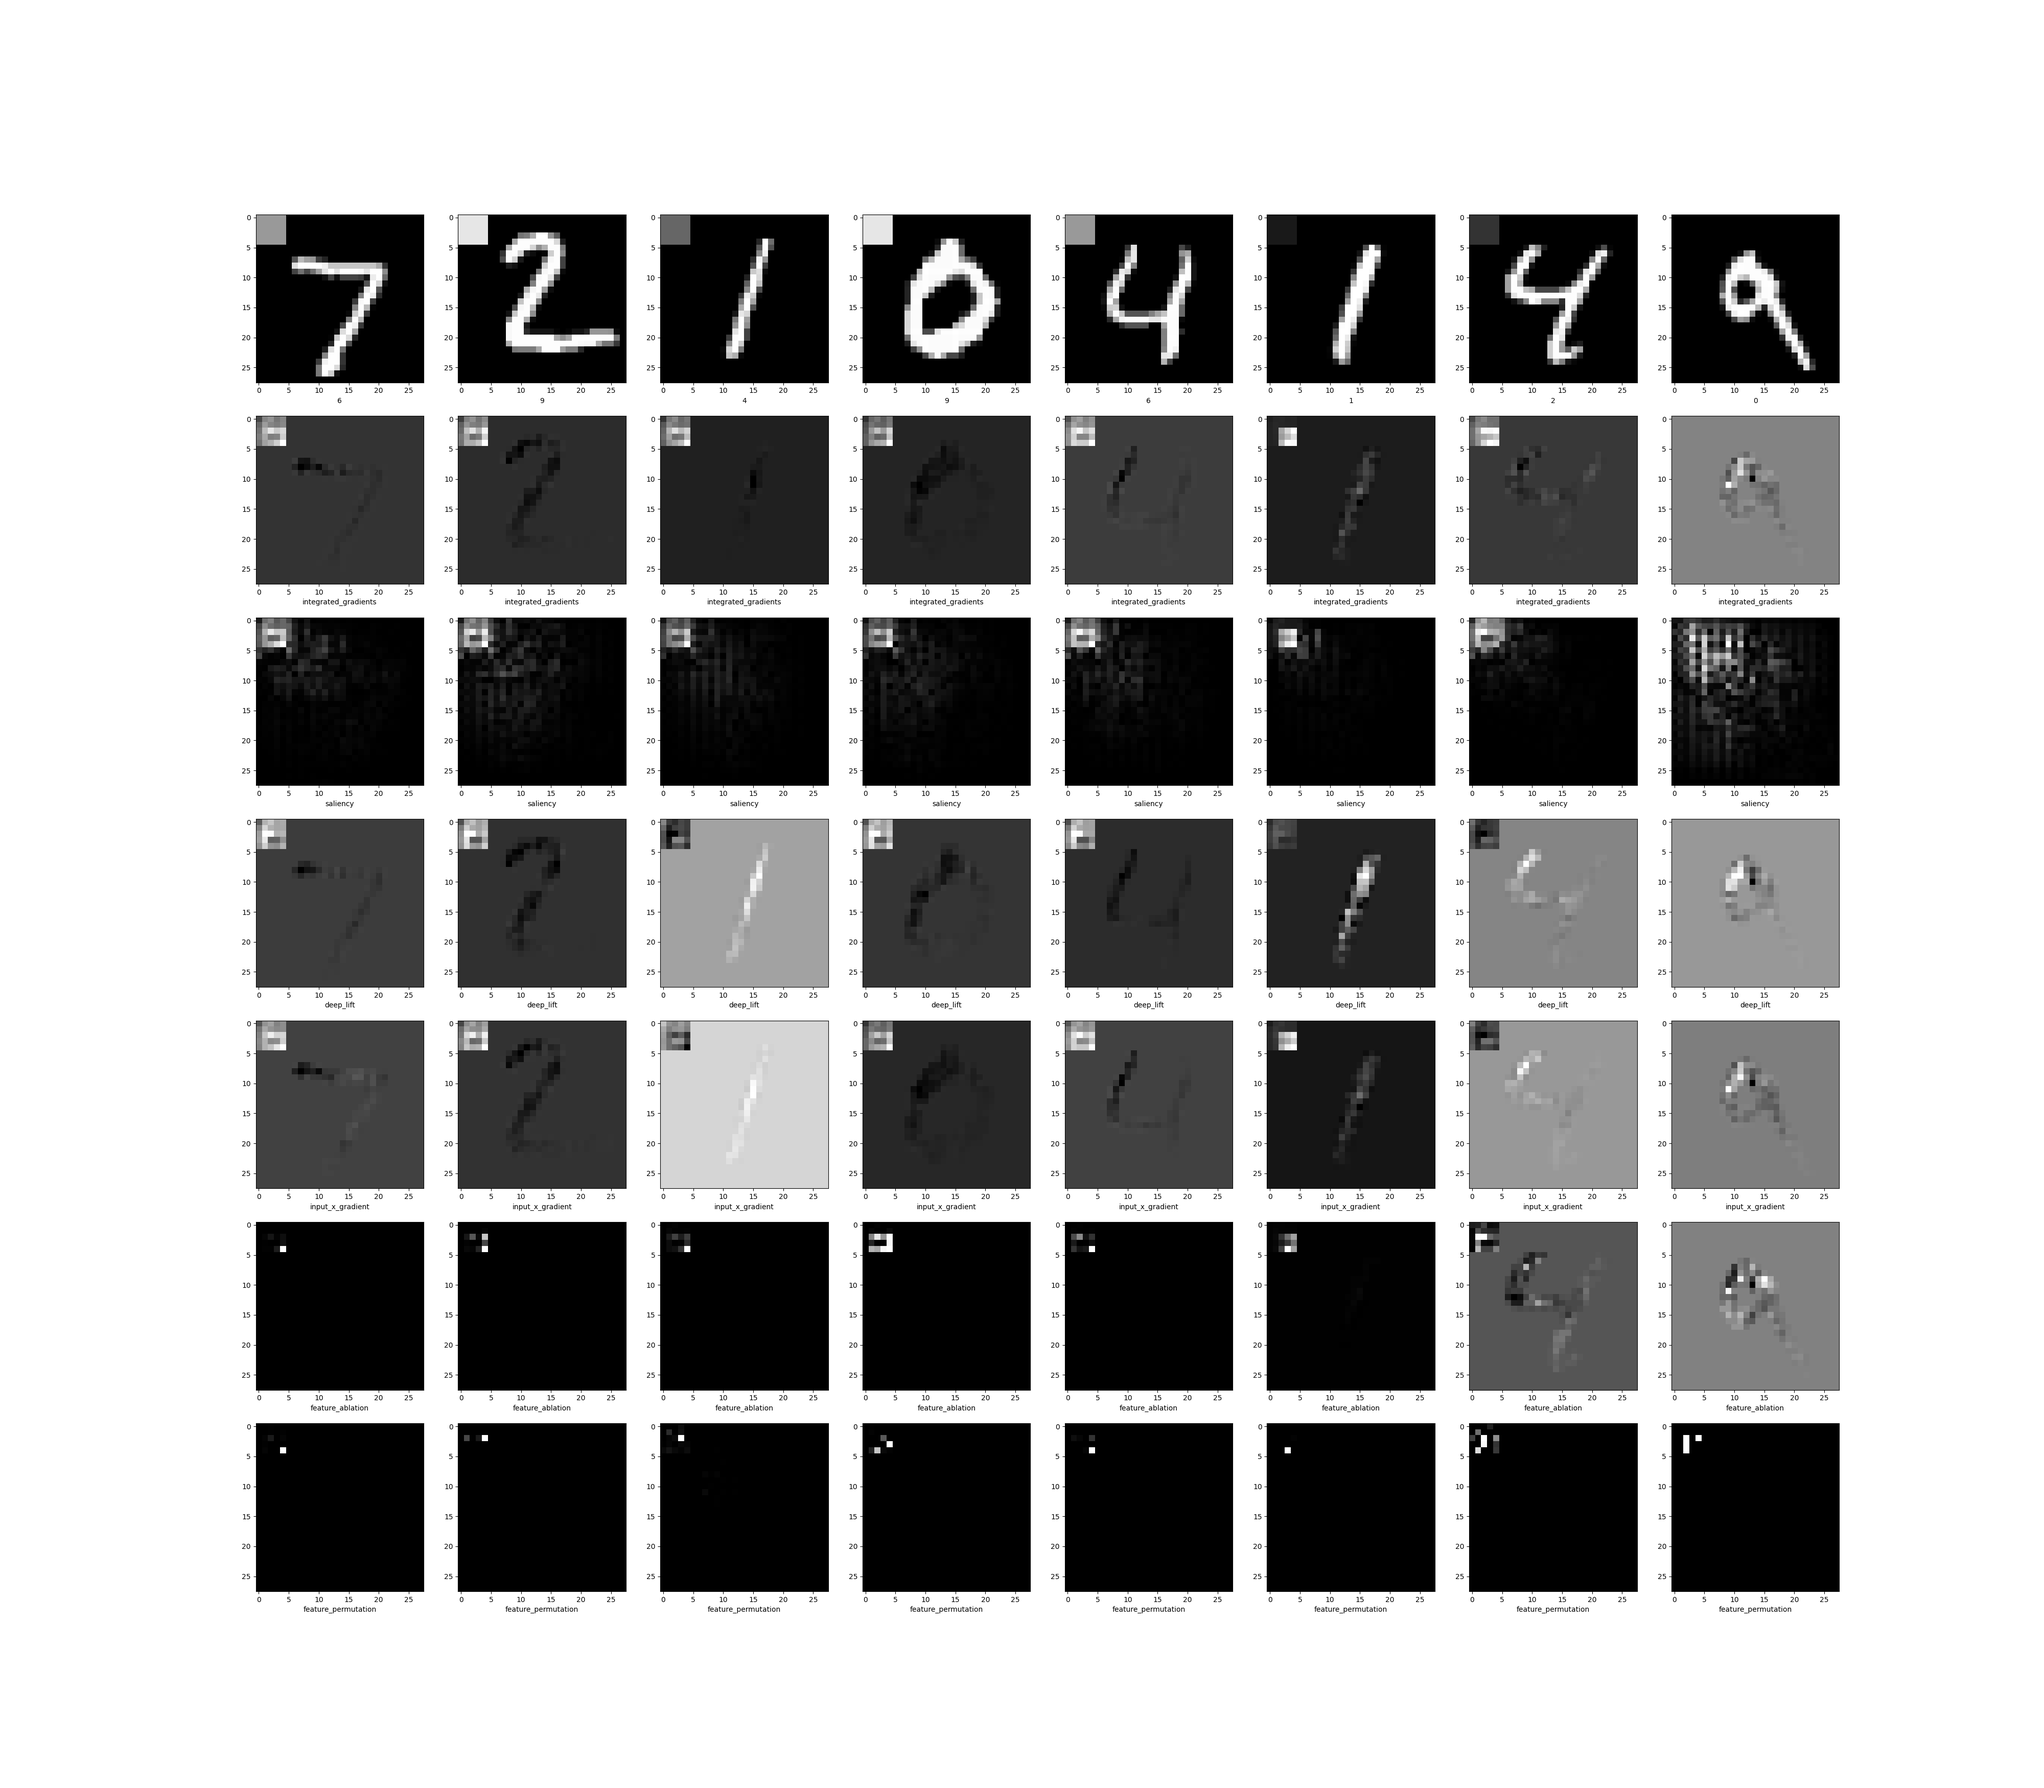
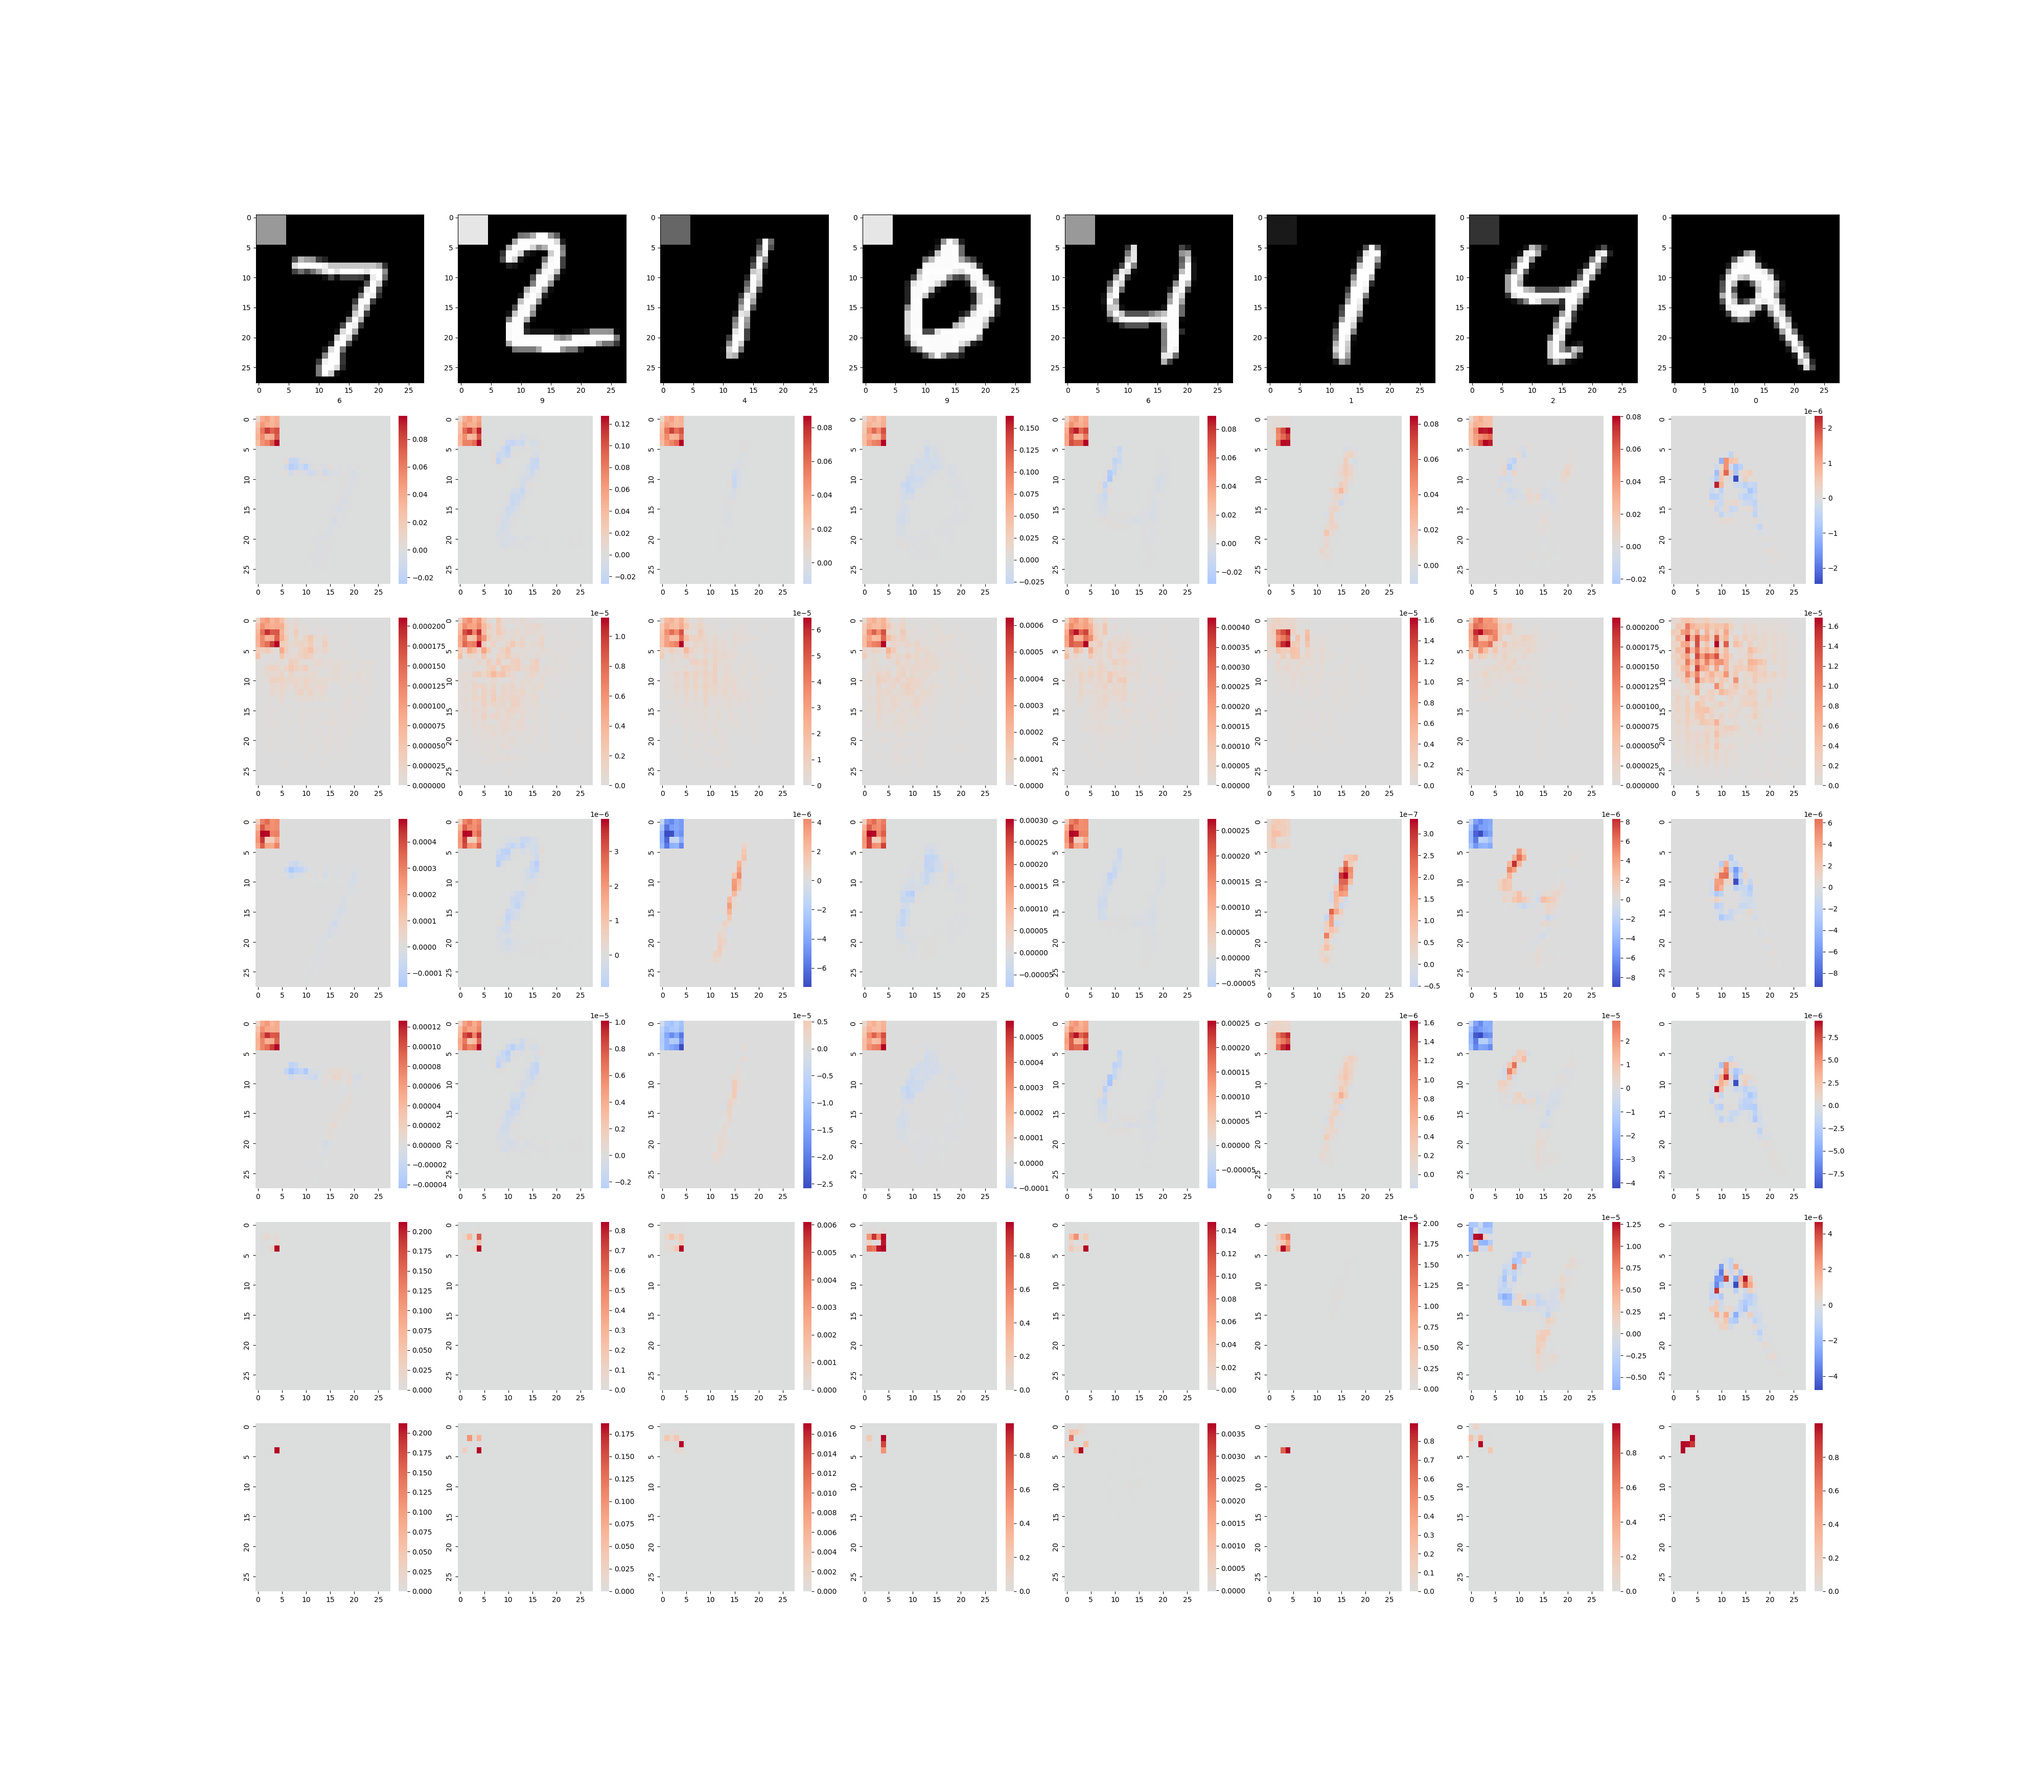
update clever hans results

diff --git a/unittests/TestCleverHans.py b/unittests/TestCleverHans.py
@@ -1,5 +1,7 @@
 import os
 import unittest
+
+import seaborn
 import tensorflow as tf
 import numpy as np
 import matplotlib.pyplot as plt
@@ -38,8 +40,9 @@ class TestCleverHans(unittest.TestCase):
                 figure.add_subplot(len(methods) + 1, n_samples, counter)
                 counter += 1
                 plt.xlabel(m)
-                plt.imshow(attr[i], cmap="gray")
-        plt.savefig('clever_hans_results_captum.png')
+                seaborn.heatmap(attr[i].squeeze(), cmap="coolwarm",  # vmin=-attr_total_max, vmax=attr_total_max,
+                                center=0, xticklabels=5, yticklabels=5)
+                plt.savefig('clever_hans_results_captum.png')
         plt.show()
 
     def test_captum_gradcam(self):
@@ -73,7 +76,7 @@ class TestCleverHans(unittest.TestCase):
         for i in range(n_samples):
             figure.add_subplot(len(methods) + 1, n_samples, counter)
             counter += 1
-            plt.xlabel(self.y_test[i])
+            plt.title(self.y_test[i])
             plt.imshow(self.x_test[i], cmap="gray")
         for m in methods:
             if m == method_keys.ACTIVATION_MAXIMIZATION:
@@ -87,12 +90,12 @@ class TestCleverHans(unittest.TestCase):
                                            dummy_input=torch_x, init_args={'model_modifier': ReplaceToLinear()},
                                            exec_args={'score': CategoricalScore(self.y_test[:8].tolist()),
                                                       'seed_input': torch_x})
-            print(type(attr))
             for i in range(n_samples):
                 figure.add_subplot(len(methods) + 1, n_samples, counter)
                 counter += 1
-                plt.xlabel(m)
-                plt.imshow(attr[i], cmap="gray")
+                plt.title(f'{m}')
+                seaborn.heatmap(attr[i].squeeze(), cmap="coolwarm",  # vmin=-attr_total_max, vmax=attr_total_max,
+                                center=0, xticklabels=5, yticklabels=5)
         plt.savefig('clever_hans_results_tfkerasvis.png')
         plt.show()
 

diff --git a/Main.py b/Main.py
@@ -3,6 +3,8 @@ import os.path
 
 import logging
 
+import seaborn
+
 from methods.AbstractAttributionMethod import AbstractAttributionMethod
 from methods.AbstractFeatureVisualizationMethod import AbstractFeatureVisualizationMethod
 from toolsets.Captum import Captum
@@ -190,7 +192,6 @@ def plot_results(attr):
     if not isinstance(attr, np.ndarray):
         attr = attr.detach().numpy()
 
-    print(attr.shape)
     n_cols = attr.shape[0]
     if len(attr.shape) == 4 and attr.shape[1] == attr.shape[2]:
         attr = np.reshape(attr, (n_cols, attr.shape[3], attr.shape[1], attr.shape[2]))
@@ -198,20 +199,21 @@ def plot_results(attr):
         figure = plt.figure(figsize=(5 * n_cols, 5 * attr.shape[1]))
     else:
         figure = plt.figure(figsize=(5 * n_cols, 5))
-    print(attr.shape)
 
     counter = 0
     for i in range(n_cols):
         if len(attr.shape) == 4:
             for c in range(attr.shape[1]):
-                figure.add_subplot(attr.shape[1], n_cols, counter + 1)
-                counter += 1
+                figure.add_subplot(attr.shape[1], n_cols, counter + 1 + c * n_cols)
                 plt.title(f'Channel {c}')
-                plt.imshow(attr[i][c], cmap="gray")
+                seaborn.heatmap(attr[i][c].squeeze(), cmap="coolwarm",  # vmin=-attr_total_max, vmax=attr_total_max,
+                                center=0, xticklabels=5, yticklabels=5)
+            counter += 1
         else:
             figure.add_subplot(1, n_cols, counter + 1)
             counter += 1
-            plt.imshow(attr[i], cmap="gray")
+            seaborn.heatmap(attr[i].squeeze(), cmap="coolwarm",  # vmin=-attr_total_max, vmax=attr_total_max,
+                            center=0, xticklabels=5, yticklabels=5)
     plt.savefig(f"res_plot{datetime.datetime.now().strftime('%Y-%m-%d_%H-%M-%S')}.png", bbox_inches='tight')
     plt.show()
 
